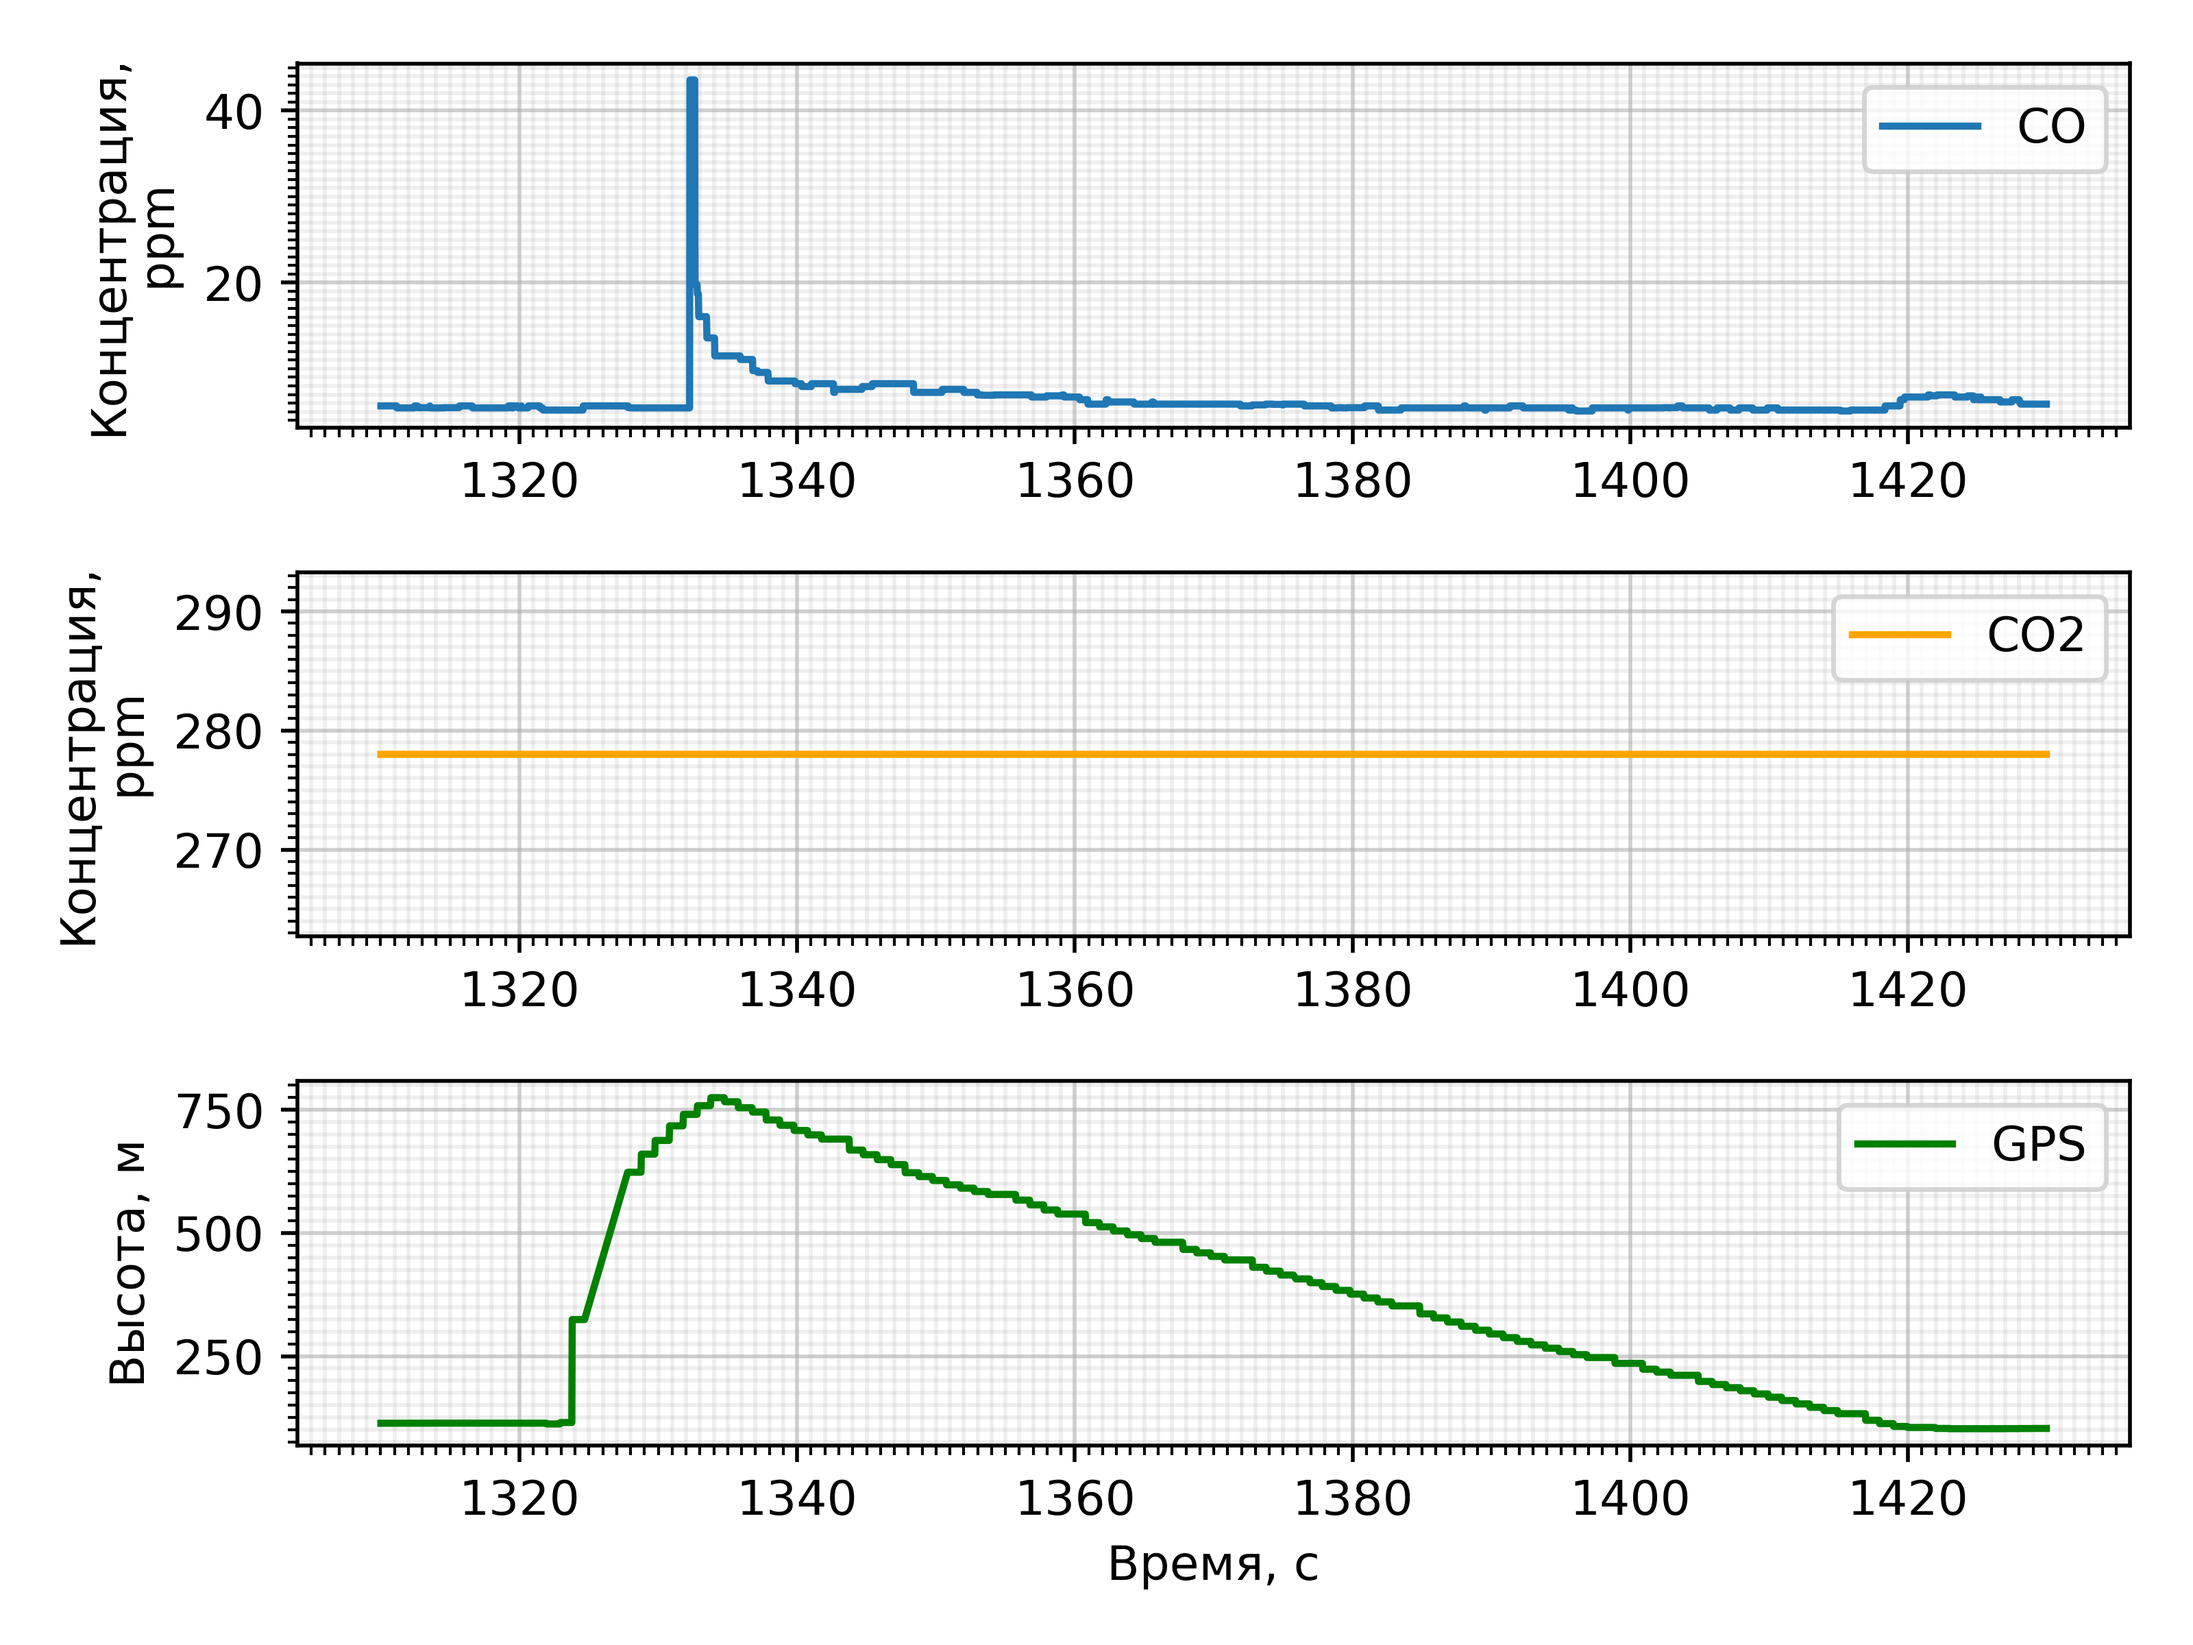
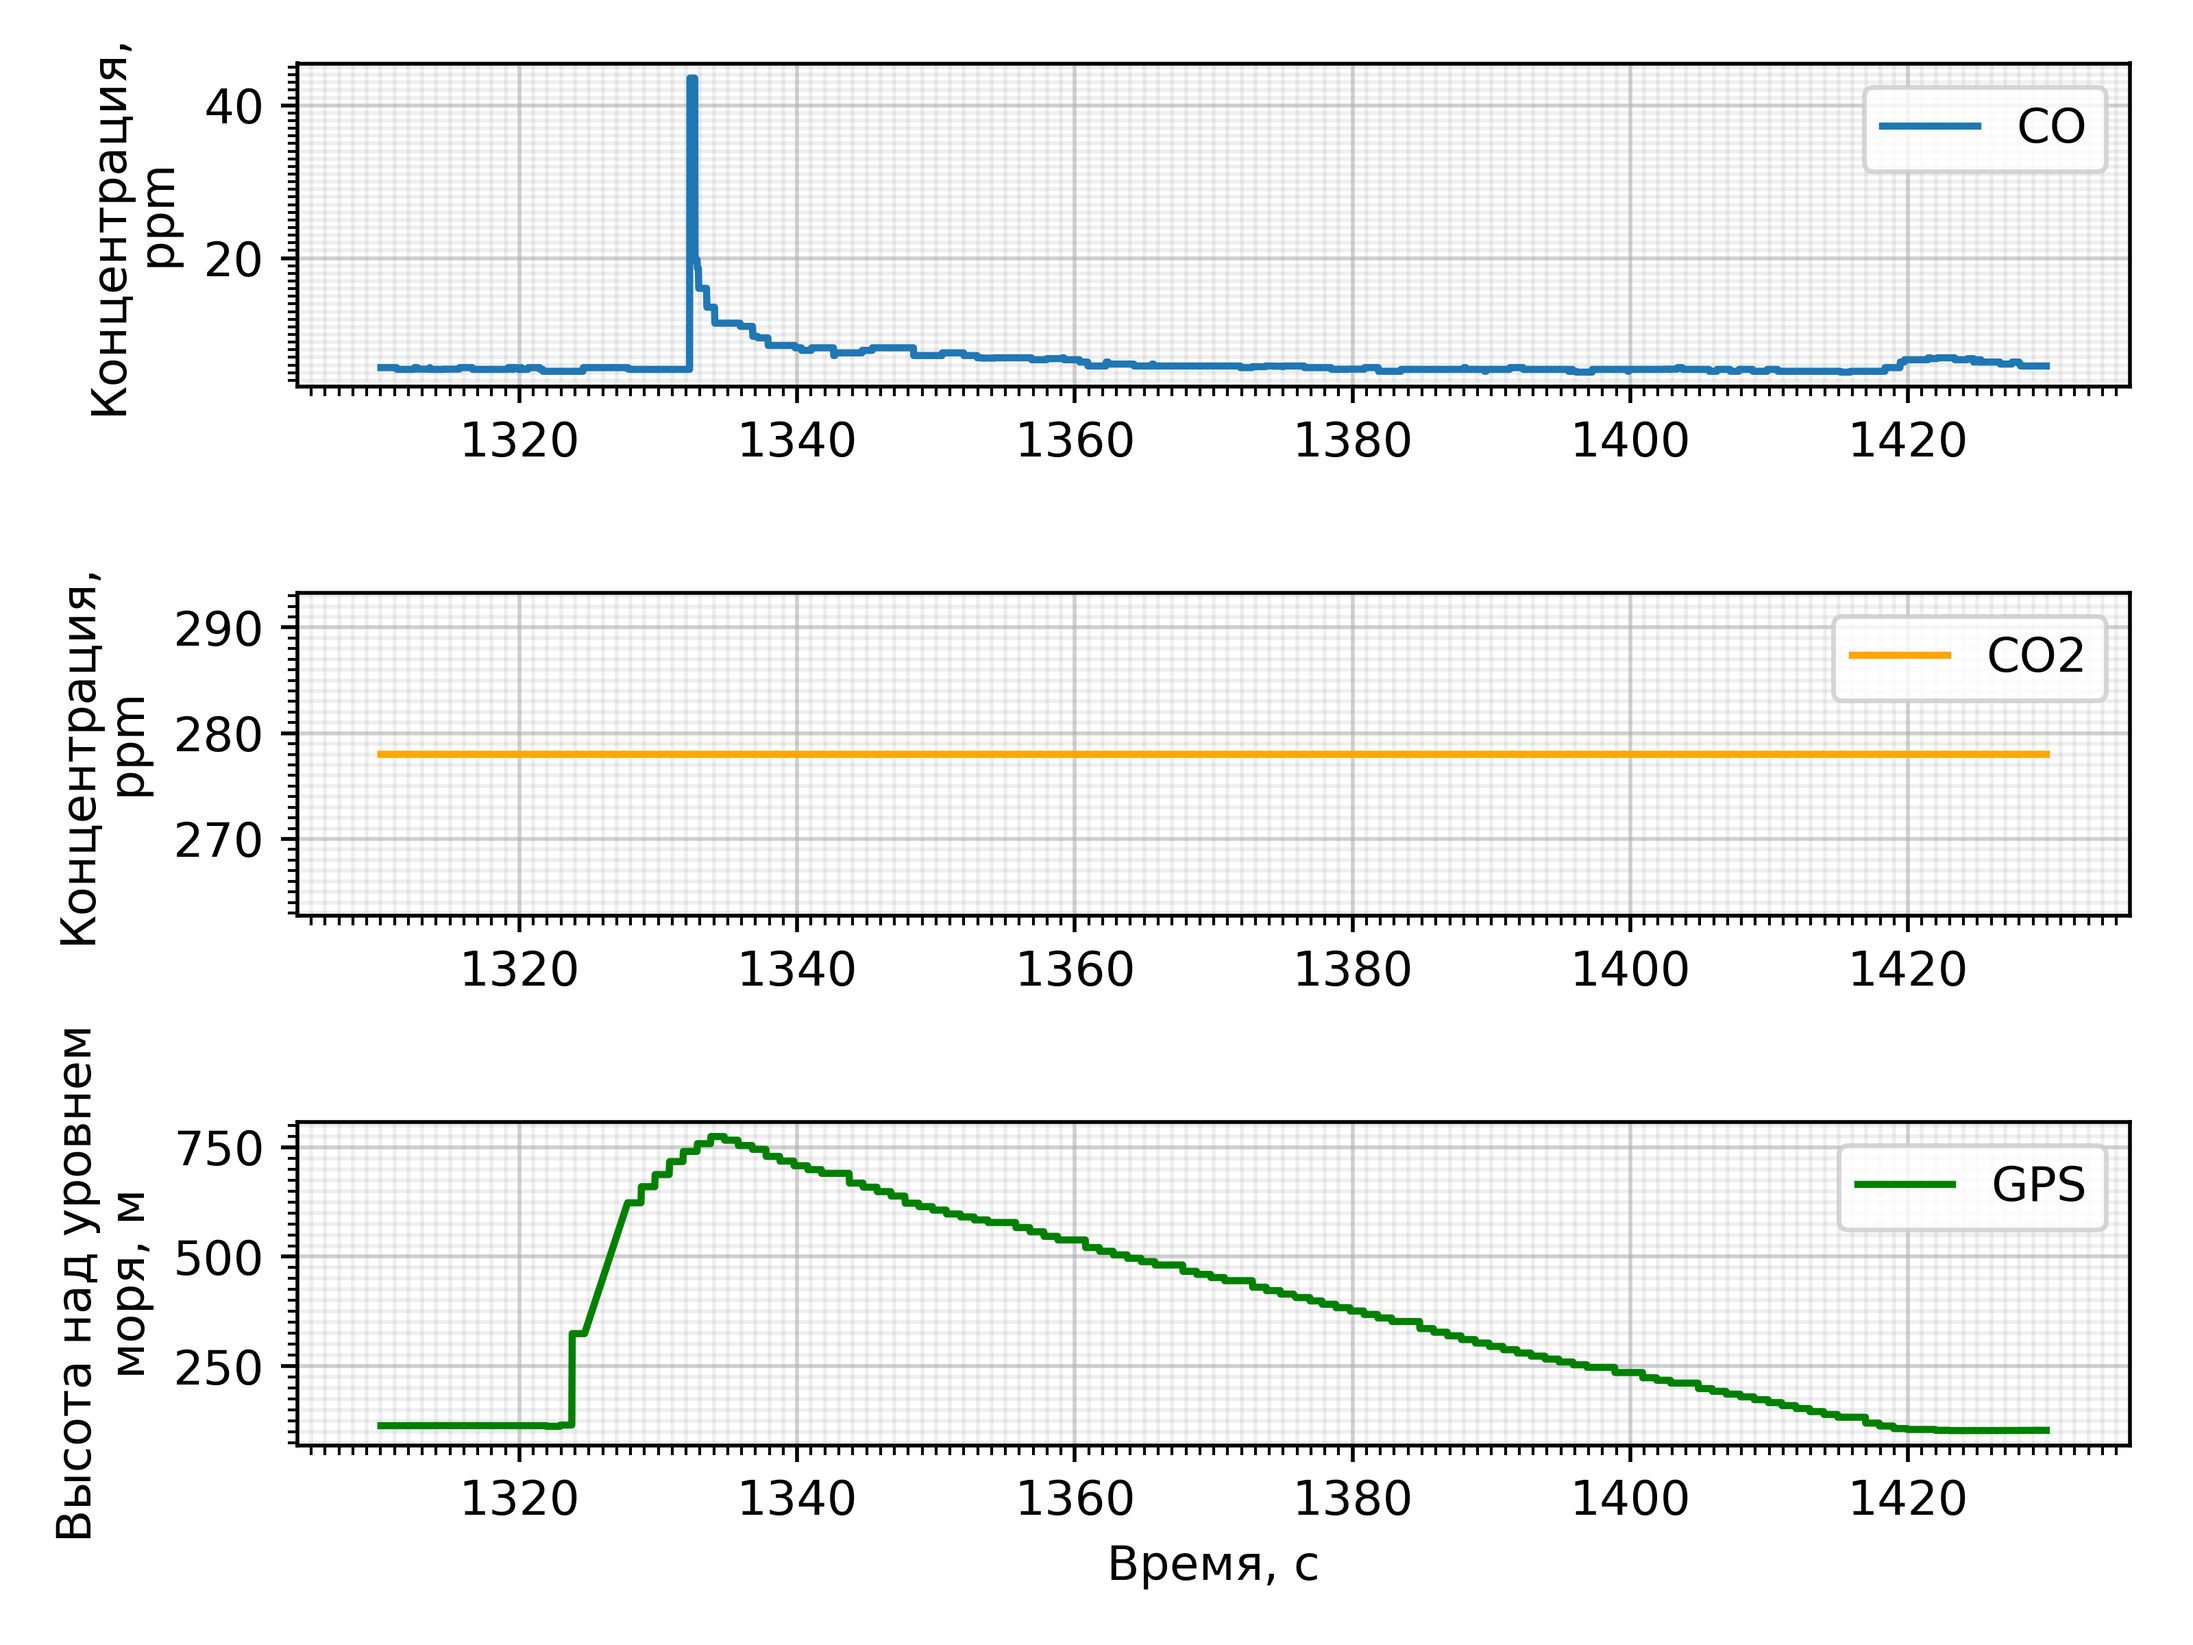
Radiation!

diff --git a/radiation_plot.py b/radiation_plot.py
@@ -1,0 +1,84 @@
+import matplotlib.pyplot as plt
+import matplotlib.ticker as  pltticker
+
+inp = open("united.csv", "r")
+
+data = [[float(pole) for pole in line.split(",")] for line in list(inp)]
+
+inp.close()
+
+#data = [line for line in data if 1310000 < line[0] < 1430000]
+
+time = [line[0] / 1000 for line in data]
+height = [line[10] for line in data]
+ticks = [line[9] for line in data]
+
+delta = 46
+start_t = 0
+for i in range(len(data)):
+    if time[i] - time[start_t] >= delta:
+        stop_t = i
+        break
+        
+radiation = [0] * stop_t
+
+while stop_t < len(data):
+    while time[stop_t] - time[start_t] > delta:
+        start_t += 1
+    radiation.append(ticks[stop_t] - ticks[start_t])
+    stop_t += 1
+    
+begin = end = 0
+for i in range(len(data)):
+    begin = i
+    if time[i] > 1310: 
+        break
+for i in range(len(data)):
+    end = i
+    if time[i] > 1430: 
+        break   
+
+fig = plt.figure()
+
+#---------------------------------
+ax = fig.add_subplot(211)
+
+ax.plot(time[begin:end], height[begin:end], label="GPS", linewidth=2)
+
+oneticker = pltticker.MultipleLocator(2)
+twoticker = pltticker.MultipleLocator(25)
+ax.xaxis.set_minor_locator(oneticker)
+ax.yaxis.set_minor_locator(twoticker)
+
+ax.grid(True, which="major", alpha=0.5)
+ax.grid(True, which="minor", alpha=0.2)
+
+ax.legend()
+
+ax.set_ylabel("Высота над уровнем\nморя, м")
+
+#---------------------------------
+ax = fig.add_subplot(212)
+
+ax.plot(time[begin:end], radiation[begin:end], "orange", linewidth=2, label="GEIGER")
+
+oneticker = pltticker.MultipleLocator(2)
+twoticker = pltticker.MultipleLocator(1)
+ax.xaxis.set_minor_locator(oneticker)
+ax.yaxis.set_minor_locator(twoticker)
+
+ax.grid(True, which="major", alpha=0.5)
+ax.grid(True, which="minor", alpha=0.2)
+
+ax.legend()
+
+ax.set_ylabel("Радиационный\nфон, мкРн/ч")
+ax.set_xlabel("Время, с")
+
+
+fig.tight_layout()
+
+fig.savefig("radiation.png", dpi=500)
+
+
+

diff --git a/height_plot.py b/height_plot.py
@@ -45,8 +45,8 @@ ax.legend()
 ax.set_xlabel("Время, с")
 ax.set_ylabel("Высота над уровнем моря, м")
 
-oneticker = pltticker.MultipleLocator(10)
-twoticker = pltticker.MultipleLocator(50)
+oneticker = pltticker.MultipleLocator(2)
+twoticker = pltticker.MultipleLocator(20)
 ax.xaxis.set_minor_locator(oneticker)
 ax.yaxis.set_minor_locator(twoticker)
 

diff --git a/conc_plot.py b/conc_plot.py
@@ -53,7 +53,7 @@ ax.grid(True, which="minor", alpha=0.2)
 #-------------------------------------------
 ax = fig.add_subplot(313)
 ax.set_xlabel("Время, с")
-ax.set_ylabel("Высота, м")
+ax.set_ylabel("Высота над уровнем\nморя, м")
 
 ax.plot(time, height, "green", label="GPS")
 
